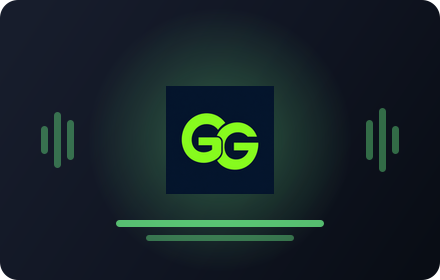
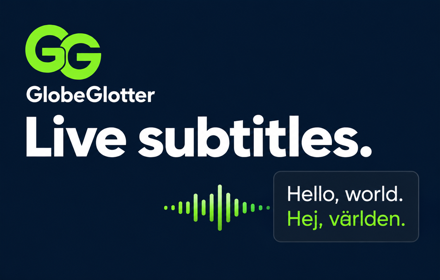
Prepare Live Subtitles 0.5.3 draft with caption fixes (#123)
* Prepare Live Subtitles 0.5.2 Store draft

* Prepare subtitle 0.5.3 draft with clear and contrast fixes

* Reset caption clear boundary when relay session changes

* Propagate Chrome Store connection check failures

* Scope historical 0.5.2 packaging instructions

---------

diff --git a/Glosify.LiveSubtitles.Extension/test/chat-buffer.test.js b/Glosify.LiveSubtitles.Extension/test/chat-buffer.test.js
@@ -317,3 +317,59 @@ test("clear removes finalized and partial transcript text", () => {
   assert.equal(chat.translation, "");
   assert.deepEqual(chat.messages, []);
 });
+
+for (const serverFinalized of [false, true]) {
+  test(`clear hides ongoing and delayed replacement segments (server bubbles: ${serverFinalized})`, () => {
+    const chat = new ChatBuffer();
+    const event = (sequence, text, isFinal = false) => ({
+      stream: "translation", sequence, delta: text, replace: true, isFinal,
+      ...(serverFinalized ? {
+        committedBubbles: isFinal ? [text] : [],
+        pendingText: isFinal ? "" : text,
+      } : {}),
+    });
+    chat.apply(event(4, "Already visible."));
+    chat.clear();
+    chat.clear(); // Clearing twice must retain the same boundary.
+    assert.deepEqual(chat.apply(event(4, "Already visible. More words.")), {
+      changed: false, committed: false,
+    });
+    chat.apply(event(4, "Already visible. More words.", true));
+    assert.equal(chat.translation, "");
+    assert.deepEqual(chat.messages, []);
+
+    chat.apply(event(5, "New speech."));
+    assert.equal(chat.translation, "New speech.");
+    chat.apply(event(3, "Delayed old speech.", true));
+    assert.equal(chat.translation, "New speech.");
+    chat.apply(event(5, "New speech.", true));
+    assert.deepEqual(chat.messages.map(item => item.text), ["New speech."]);
+
+    chat.clear({ resetStream: true });
+    chat.apply(event(1, "A new session.", true));
+    assert.deepEqual(chat.messages.map(item => item.text), ["A new session."]);
+  });
+}
+
+test("replacement relay resets the clear boundary while preserving visible history", () => {
+  const chat = new ChatBuffer();
+  const event = (sequence, text, isFinal = false) => ({
+    stream: "translation", sequence, delta: text, replace: true, isFinal,
+  });
+  chat.apply(event(40, "Cleared old text"));
+  chat.clear();
+  chat.apply(event(41, "Kept history.", true));
+  chat.apply(event(42, "Old relay partial"));
+  chat.resetStream();
+  assert.equal(chat.translation, "");
+  assert.deepEqual(chat.messages.map(item => item.text), ["Kept history."]);
+  chat.apply(event(1, "Replacement relay captions"));
+  assert.equal(chat.translation, "Replacement relay captions");
+  chat.apply(event(1, "Replacement relay captions.", true));
+  assert.deepEqual(chat.messages.map(item => item.text), ["Kept history.", "Replacement relay captions."]);
+  chat.clear();
+  chat.apply(event(1, "Cleared replacement caption", true));
+  assert.deepEqual(chat.messages, []);
+  chat.apply(event(2, "Next caption.", true));
+  assert.deepEqual(chat.messages.map(item => item.text), ["Next caption."]);
+});

diff --git a/Glosify.LiveSubtitles.Extension/test-browser/clear-reconnect.spec.js b/Glosify.LiveSubtitles.Extension/test-browser/clear-reconnect.spec.js
@@ -1,0 +1,45 @@
+import { test, expect, chromium } from "@playwright/test";
+import { fileURLToPath } from "node:url";
+
+test("Clear remains scoped to the bound relay session", async () => {
+  const browser = await chromium.launch({ headless: true });
+  try {
+    const page = await browser.newPage();
+    await page.goto("about:blank");
+    await page.evaluate(() => {
+      globalThis.chrome = { runtime: { onMessage: {
+        addListener(listener) { globalThis.receiveOverlayMessage = listener; },
+      } } };
+      const attachShadow = Element.prototype.attachShadow;
+      Element.prototype.attachShadow = function (options) {
+        const shadow = attachShadow.call(this, options);
+        globalThis.subtitleShadow = shadow;
+        return shadow;
+      };
+    });
+    for (const file of ["lib/chat-buffer.js", "lib/subtitle-appearance.js", "content/subtitles.js"]) {
+      await page.addScriptTag({ path: fileURLToPath(new URL(`../${file}`, import.meta.url)) });
+    }
+    const send = message => page.evaluate(value => {
+      let response;
+      globalThis.receiveOverlayMessage(value, {}, result => { response = result; });
+      return response;
+    }, message);
+    const caption = (sequence, delta) => send({ type: "overlay:subtitle", event: {
+      stream: "translation", sequence, delta, replace: true, isFinal: true,
+    } });
+    await send({ type: "overlay:bind-session", sessionId: "old-relay" });
+    await caption(40, "Old caption.");
+    await page.evaluate(() => globalThis.subtitleShadow.querySelector(".clear").click());
+    await send({ type: "overlay:bind-session", sessionId: "old-relay" });
+    await caption(40, "Old caption.");
+    expect((await send({ type: "overlay:get-state" })).captionText).toBe("");
+    await caption(41, "Keep this history.");
+    await send({ type: "overlay:bind-session", sessionId: "replacement-relay" });
+    await caption(1, "First replacement caption.");
+    expect((await send({ type: "overlay:get-state" })).captionText)
+      .toBe("Keep this history.\nFirst replacement caption.");
+  } finally {
+    await browser.close();
+  }
+});

diff --git a/Glosify.LiveSubtitles.Extension/content/subtitles.js b/Glosify.LiveSubtitles.Extension/content/subtitles.js
@@ -282,8 +282,9 @@
       }
       .panel.transparent:not(:hover):not(:focus-within) .message {
         border-color: transparent;
-        background: transparent;
-        box-shadow: none;
+        border-radius: 8px;
+        background: rgba(5, 12, 20, .76);
+        box-shadow: 0 2px 8px rgba(0, 0, 0, .2);
       }
       .panel.transparent:not(:hover):not(:focus-within) .translation {
         text-shadow: 0 1px 3px rgba(0, 0, 0, .95), 0 0 8px rgba(0, 0, 0, .72);
@@ -403,14 +404,14 @@
     }
   }
 
-  function clearTranscript() {
-    chat.clear();
+  function clearTranscript(options) {
+    chat.clear(options);
     history.replaceChildren();
     renderChat();
   }
 
   function clearAndHide() {
-    clearTranscript();
+    clearTranscript({ resetStream: true });
     statusText.textContent = "";
     panel.classList.add("hidden");
   }
@@ -533,7 +534,7 @@
     return Math.min(Math.max(value, minimum), maximum);
   }
 
-  clearButton.addEventListener("click", clearTranscript);
+  clearButton.addEventListener("click", () => clearTranscript());
   stopButton.addEventListener("click", stopSubtitles);
   minimizeButton.addEventListener("click", toggleMinimized);
   header.addEventListener("pointerdown", beginDrag);
@@ -545,6 +546,10 @@
   chrome.runtime.onMessage.addListener((message, sender, sendResponse) => {
     switch (message?.type) {
       case "overlay:bind-session":
+        if (activeSessionId !== (message.sessionId ?? null)) {
+          chat.resetStream();
+          renderChat();
+        }
         activeSessionId = message.sessionId ?? null;
         sendResponse({ activeSessionId });
         break;

diff --git a/Glosify.LiveSubtitles.Extension/lib/chat-buffer.js b/Glosify.LiveSubtitles.Extension/lib/chat-buffer.js
@@ -13,6 +13,8 @@
       this.replacementSequence = null;
       this.previousReplacementSentences = [];
       this.committedReplacementSentences = 0;
+      this.latestSequence = -Infinity;
+      this.clearedThroughSequence = -Infinity;
     }
 
     get liveBubbles() {
@@ -22,6 +24,15 @@
     apply(event) {
       if (!event || event.stream !== "translation") {
         return { changed: false, committed: false };
+      }
+
+      // Replacements contain the entire utterance, including text cleared while
+      // audio was playing. Keep that utterance (and delayed older ones) hidden.
+      if (Number.isFinite(event.sequence)) {
+        if (event.sequence <= this.clearedThroughSequence) {
+          return { changed: false, committed: false };
+        }
+        this.latestSequence = Math.max(this.latestSequence, event.sequence);
       }
 
       const timestamp = Number.isFinite(event.clientTimestamp)
@@ -166,7 +177,18 @@
       this.committedReplacementSentences = 0;
     }
 
-    clear() {
+    resetStream() {
+      this.latestSequence = -Infinity;
+      this.clearedThroughSequence = -Infinity;
+      this.translation = "";
+      this.resetReplacement();
+    }
+
+    clear({ resetStream = false } = {}) {
+      this.clearedThroughSequence = resetStream ? -Infinity : this.latestSequence;
+      if (resetStream) {
+        this.latestSequence = -Infinity;
+      }
       this.messages.length = 0;
       this.translation = "";
       this.resetReplacement();

diff --git a/Glosify.LiveSubtitles.Extension/README.md b/Glosify.LiveSubtitles.Extension/README.md
@@ -7,7 +7,7 @@ The source directory is intentionally not a loadable unpacked extension. Build o
 - `npm run build:store-local` produces `artifacts/store` with the Chrome Web Store public key and localhost permissions, connects to `https://localhost:7032`, and is intended only for unpacked local testing.
 - `npm run build:test` produces the localhost-only profile used by persistent Chromium tests.
 - `npm run test:browser` builds that profile and exercises the MV3 worker, offscreen audio, mock HTTP/WebSocket relay, concurrency, and navigation shutdown.
-- `npm run package:store` rebuilds, validates, and creates `artifacts/package/glosify-live-subtitles-0.5.1-beta.zip` with `manifest.json` at its root.
+- `npm run package:store` rebuilds, validates, and creates `artifacts/package/glosify-live-subtitles-0.5.3-beta.zip` with `manifest.json` at its root.
 
 Development and test builds pin a public key so their unpacked extension ID
 stays stable. The Store build deliberately omits `key` so Chrome Web Store can

diff --git a/Glosify.LiveSubtitles.Extension/RELEASE-0.5.2.md b/Glosify.LiveSubtitles.Extension/RELEASE-0.5.2.md
@@ -1,0 +1,9 @@
+# GlobeGlotter Live Subtitles 0.5.2 BETA draft
+
+Version-only Store draft prepared from master after Chrome Web Store confirmed that 0.5.1 was already published. No runtime code or permission changes.
+
+Package: `artifacts/package/glosify-live-subtitles-0.5.2-beta.zip`.
+
+Historical recipe: use the 0.5.2 source revision `ad4ee9e17100ccd050922088bedd2b7ecde4436d` for the following commands. Current sources produce 0.5.3; see `RELEASE-0.5.3.md`.
+
+Run `npm test` and `npm run package:store`. Validate archive integrity and confirm that the manifest version is the only package content difference from the successful 0.5.1 CI artifact. Upload as a draft only; do not submit for publication.

diff --git a/Glosify.LiveSubtitles.Extension/store-listing/CHROME-WEB-STORE.md b/Glosify.LiveSubtitles.Extension/store-listing/CHROME-WEB-STORE.md
@@ -1,4 +1,4 @@
-# Chrome Web Store submission — 0.5.1 BETA
+# Chrome Web Store submission — 0.5.3 BETA
 
 ## Publishing settings
 
@@ -83,7 +83,7 @@ The screenshots are deterministic frames around the actual extension screenshots
 
 ## Manual dashboard checklist
 
-- Upload only `artifacts/package/glosify-live-subtitles-0.5.1-beta.zip`.
+- Upload only `artifacts/package/glosify-live-subtitles-0.5.3-beta.zip`.
 - Enter the temporary reviewer credentials only in the dashboard reviewer field.
 - Confirm data-use declarations match the answers above.
 - Confirm Public visibility, BETA branding, and deferred publishing before submitting.

diff --git a/Glosify.LiveSubtitles.Extension/RELEASE-0.5.3.md b/Glosify.LiveSubtitles.Extension/RELEASE-0.5.3.md
@@ -1,0 +1,5 @@
+# Live Subtitles 0.5.3
+
+- Keep cleared speech segments hidden during continuing audio.
+- Add translucent dark boxes behind transparent captions.
+- Refresh green GG promotional tiles and capture screenshots for manual Store listing upload.
